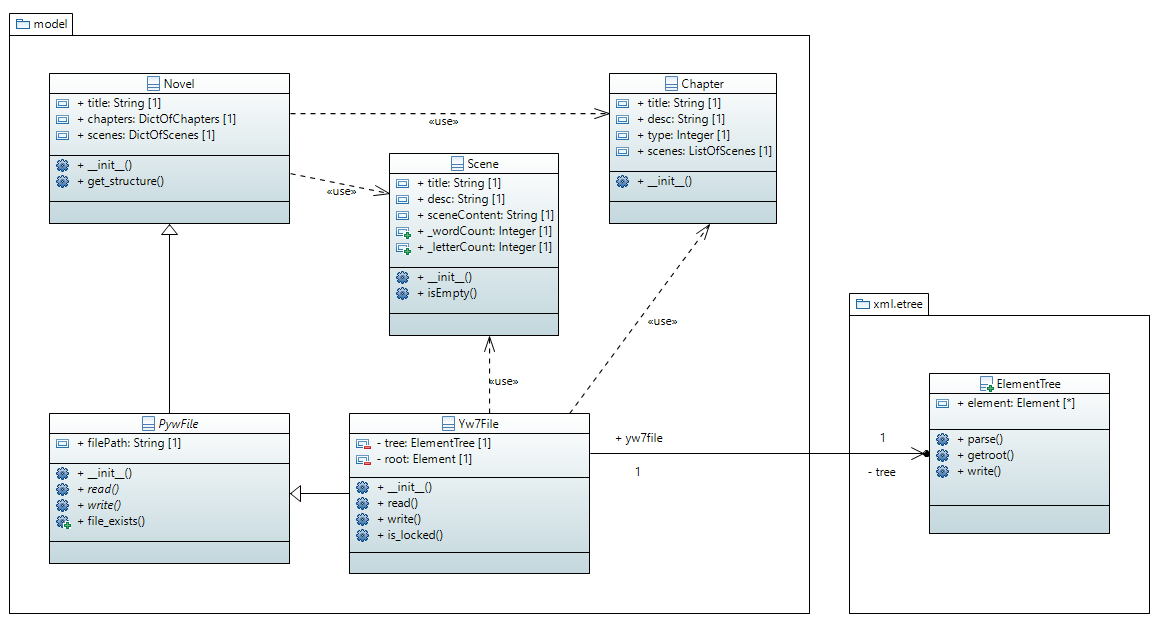
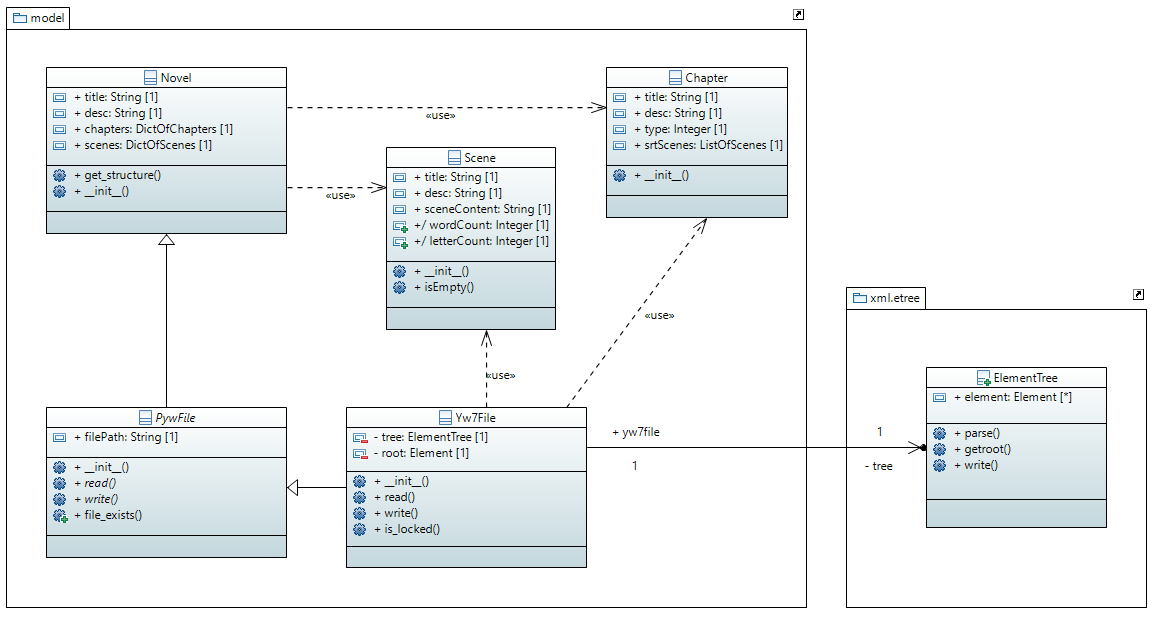
Refactor; update UML model
* Make derived attributes for word count and letter count public.

diff --git a/src/pywriter/model/scene.py b/src/pywriter/model/scene.py
@@ -23,10 +23,10 @@ class Scene():
     sceneContent : str (property with setter)
         scene text with raw markup.
 
-    _wordCount : int 
+    wordCount : int 
         (to be updated by the sceneContent setter).
 
-    _letterCount : int 
+    letterCount : int 
         (to be updated by the sceneContent setter).
 
     # Methods 
@@ -38,8 +38,8 @@ class Scene():
     def __init__(self):
         self.title = ''
         self.desc = ''
-        self._wordCount = 0
-        self._letterCount = 0
+        self.wordCount = 0
+        self.letterCount = 0
         self._sceneContent = ''
 
     @property
@@ -55,14 +55,14 @@ class Scene():
         # Remove yw7 raw markup for word count
 
         wordList = text.split()
-        self._wordCount = len(wordList)
+        self.wordCount = len(wordList)
 
         text = re.sub('\[.+?\]', '', self._sceneContent)
         # Remove yw7 raw markup for letter count
 
         text = text.replace('\n', '')
         text = text.replace('\r', '')
-        self._letterCount = len(text)
+        self.letterCount = len(text)
 
     def isEmpty(self) -> bool:
         """Check whether the scene has no content yet. """

diff --git a/src/pywriter/model/yw7file.py b/src/pywriter/model/yw7file.py
@@ -203,9 +203,9 @@ class Yw7File(PywFile):
                     scn.find(
                         'SceneContent').text = self.scenes[scId]._sceneContent
                     scn.find('WordCount').text = str(
-                        self.scenes[scId]._wordCount)
+                        self.scenes[scId].wordCount)
                     scn.find('LetterCount').text = str(
-                        self.scenes[scId]._letterCount)
+                        self.scenes[scId].letterCount)
 
                 scn.find('Title').text = self.scenes[scId].title
 
